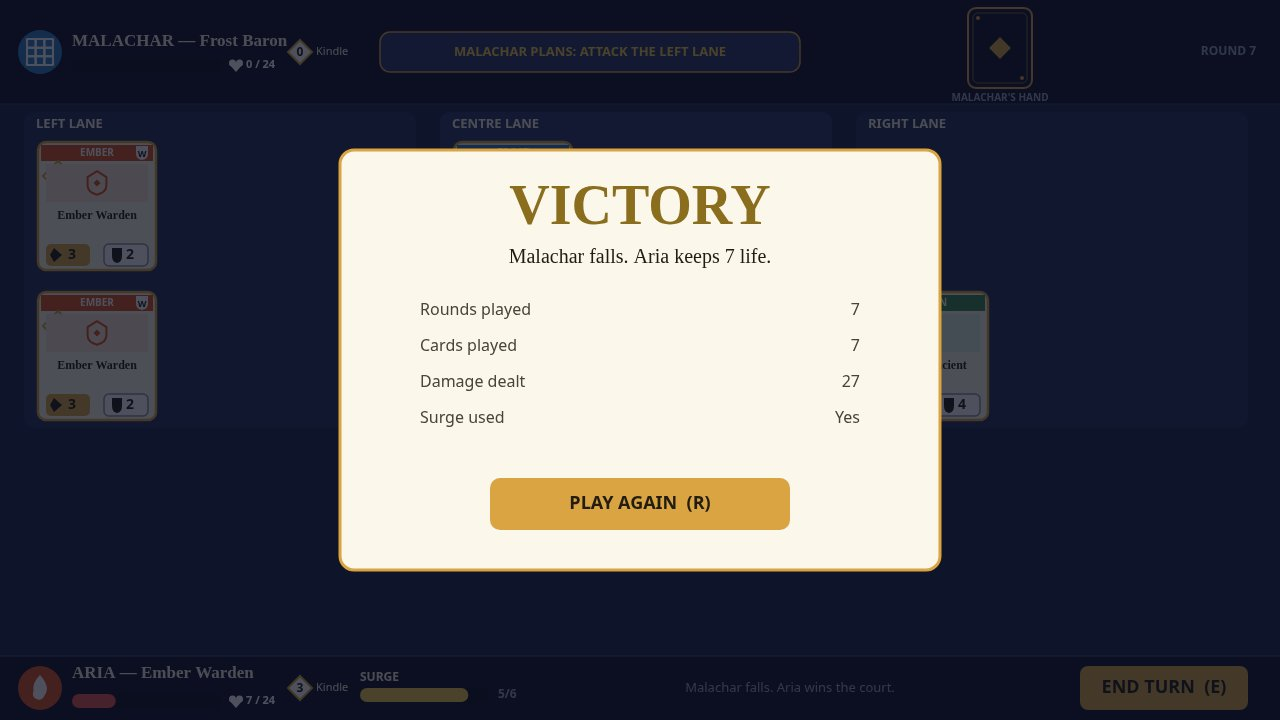
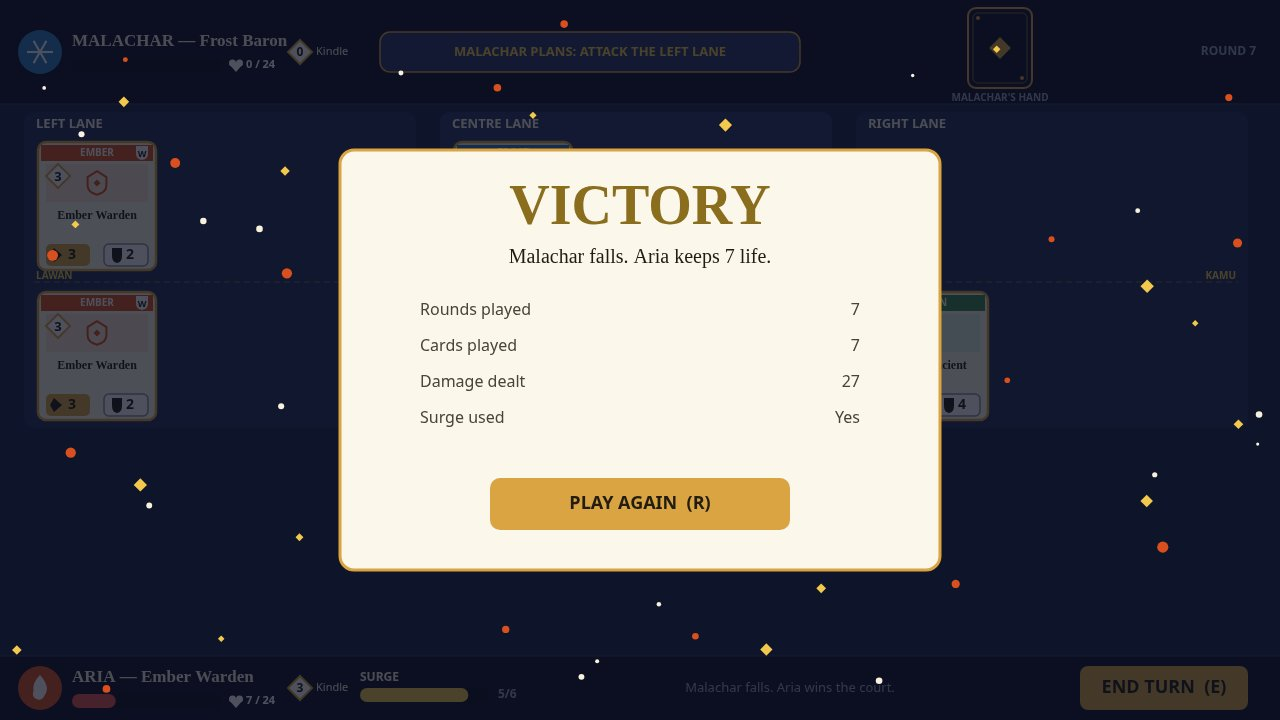
Claude Prompt 3 fixes: visible cost gem on all cards, clean full table shot, win confetti, Frost portrait

diff --git a/game/src/render.js b/game/src/render.js
@@ -4,6 +4,7 @@
 // only during play, never under a win/loss overlay.
 import { FIELD, PALETTE, STAT, FONT, FONT_UI, LANES, SURGE_MAX } from './config.js';
 import { ELEMENTS } from './cards.js';
+import { mulberry32 } from './random.js';
 import { effectiveAtk, resonanceBonus } from './engine.js';
 
 const LANE_X = [24, 440, 856];
@@ -201,17 +202,22 @@ export function drawCard(ctx, card, x, y, w, h, opts = {}) {
   ctx.textAlign = 'center';
   ctx.textBaseline = 'middle';
   ctx.fillText(el.name.toUpperCase(), x + w / 2, y + 11);
-  // Cost gem: a white diamond with a gold edge, top-left, clear of the art.
-  diamond(ctx, x + 20, y + 34, 15, STAT.costFill, STAT.costEdge);
-  ctx.fillStyle = STAT.costInk;
-  ctx.font = `bold 16px ${FONT_UI}`;
-  ctx.fillText(String(card.cost), x + 20, y + 35);
   // Unique art in a light tint of the element.
   const artY = y + 22;
   const artH = Math.max(28, Math.round(h * 0.3));
   ctx.fillStyle = el.light;
   ctx.fillRect(x + 8, artY, w - 16, artH);
   drawArt(ctx, card.art, x + w / 2, artY + artH / 2, Math.min(artH * 0.62, 52), el.color);
+  // Cost gem, drawn AFTER the art: a white diamond with a gold edge,
+  // top-left, number in dark ink. The gem IS the card's cost in Kindle
+  // and must read on every card, spells included. v2 drew it BEFORE the
+  // art rect, so the art painted over it and only a gold sliver stuck
+  // out at the card edge — the meaningless orange glyph in the corner.
+  const gemR = h >= 170 ? 15 : 12;
+  diamond(ctx, x + 20, y + 34, gemR, STAT.costFill, STAT.costEdge);
+  ctx.fillStyle = STAT.costInk;
+  ctx.font = `bold ${h >= 170 ? 16 : 13}px ${FONT_UI}`;
+  ctx.fillText(String(card.cost), x + 20, y + 35);
   // Name below the art. On small board cards that is all the text there is
   // room for: the rules text only fits on the large hand cards, where it
   // gets its own padded box clear of the stat strip. v1 squeezed rules
@@ -452,6 +458,22 @@ function drawLane(ctx, game, lane) {
     const selected = game.selected >= 0 && game.selectedLane === lane;
     drawCard(ctx, shown, cx, 292, BOARD_CARD.w, BOARD_CARD.h, { selected });
   });
+  // Ownership divider: the gap between the AI row (bottom y=270) and the
+  // player row (top y=292) carries a dashed line and two labels, so which
+  // half belongs to whom never has to be guessed from position alone.
+  ctx.strokeStyle = 'rgba(217,164,65,0.45)';
+  ctx.lineWidth = 1;
+  ctx.setLineDash([6, 4]);
+  ctx.beginPath(); ctx.moveTo(x + 10, 282); ctx.lineTo(x + LANE_W - 10, 282); ctx.stroke();
+  ctx.setLineDash([]);
+  ctx.font = `bold 10px ${FONT_UI}`;
+  ctx.textBaseline = 'middle';
+  ctx.fillStyle = PALETTE.goldBright;
+  ctx.textAlign = 'left';
+  ctx.fillText('LAWAN', x + 12, 276);
+  ctx.textAlign = 'right';
+  ctx.fillText('KAMU', x + LANE_W - 12, 276);
+  ctx.textAlign = 'center';
   if (game.selected >= 0 && game.selectedLane === lane) {
     ctx.strokeStyle = PALETTE.goldBright;
     ctx.lineWidth = 3;
@@ -481,7 +503,9 @@ export function drawTable(ctx, game) {
   ctx.beginPath(); ctx.moveTo(0, 104); ctx.lineTo(FIELD.width, 104); ctx.stroke();
   ctx.fillStyle = ELEMENTS.frost.color;
   ctx.beginPath(); ctx.arc(40, 52, 22, 0, Math.PI * 2); ctx.fill();
-  drawArt(ctx, 'wall', 40, 52, 26, '#ffffff');
+  // Frost emblem (snowflake), the same glyph the title screen uses for
+  // Frost — not the 3x3 grid, which read as a placeholder.
+  drawArt(ctx, 'snow', 40, 52, 26, '#ffffff');
   ctx.fillStyle = PALETTE.ivory;
   ctx.font = `bold 17px ${FONT}`;
   ctx.textAlign = 'left';
@@ -615,6 +639,36 @@ export function drawOver(ctx, game) {
   ctx.fillStyle = 'rgba(10,14,30,0.72)';
   ctx.fillRect(0, 0, FIELD.width, FIELD.height);
   const won = game.winner === 'player';
+  if (won) {
+    // Victory celebration: static ember confetti around the modal, placed
+    // by a seeded shuffle of the duel seed so the frame is deterministic.
+    // Static on purpose — a frozen mid-animation burst would read as a
+    // glitch, and the shot renderer draws one frame only. Confetti stays
+    // in the margins, clear of the modal (340..940 x 150..570).
+    const rand = mulberry32((game.seed * 101 + 7) >>> 0);
+    const bands = [
+      { x0: 16, x1: 1264, y0: 16, y1: 138 },
+      { x0: 16, x1: 1264, y0: 582, y1: 704 },
+      { x0: 16, x1: 324, y0: 150, y1: 570 },
+      { x0: 956, x1: 1264, y0: 150, y1: 570 },
+    ];
+    for (let i = 0; i < 48; i += 1) {
+      const band = bands[i % bands.length];
+      const px = band.x0 + rand() * (band.x1 - band.x0);
+      const py = band.y0 + rand() * (band.y1 - band.y0);
+      const r = 3 + rand() * 4;
+      const kind = i % 3;
+      if (kind === 0) {
+        diamond(ctx, px, py, r, PALETTE.goldBright, null);
+      } else if (kind === 1) {
+        ctx.fillStyle = '#d9501e';
+        ctx.beginPath(); ctx.arc(px, py, r * 0.8, 0, Math.PI * 2); ctx.fill();
+      } else {
+        ctx.fillStyle = PALETTE.ivory;
+        ctx.beginPath(); ctx.arc(px, py, r * 0.5, 0, Math.PI * 2); ctx.fill();
+      }
+    }
+  }
   ctx.fillStyle = PALETTE.cardWhite;
   roundRect(ctx, 340, 150, 600, 420, 14);
   ctx.fill();

diff --git a/game/src/shots.js b/game/src/shots.js
@@ -111,23 +111,43 @@ export function stageShot(name, seed) {
   if (name === 'win') {
     for (const candidate of WIN_SEEDS) {
       const game = runDuel(candidate, 'sharp');
-      if (game.phase === 'over' && game.winner === 'player') return { screen: SCREEN_OVER, game };
+      if (game.phase === 'over' && game.winner === 'player') { game.fx = []; return { screen: SCREEN_OVER, game }; }
     }
     const game = runDuel(WIN_SEEDS[0], 'sharp');
+    game.fx = [];
     return { screen: game.phase === 'over' ? SCREEN_OVER : SCREEN_PLAY, game };
   }
   if (name === 'loss') {
     for (const candidate of LOSS_SEEDS) {
       const game = runDuel(candidate, 'weak');
-      if (game.phase === 'over' && game.winner === 'ai') return { screen: SCREEN_OVER, game };
+      if (game.phase === 'over' && game.winner === 'ai') { game.fx = []; return { screen: SCREEN_OVER, game }; }
     }
     const game = runDuel(LOSS_SEEDS[0], 'weak');
+    game.fx = [];
     return { screen: game.phase === 'over' ? SCREEN_OVER : SCREEN_PLAY, game };
   }
   if (name === 'play') {
-    // Four rounds in: both boards populated, three cards in hand, life
-    // 21 vs 17 — a mid-duel that actually shows the game.
-    const game = runMidDuel(seed || 5, 4);
+    // A mid-duel cover needs a FULL board: at least 4 creatures, both
+    // sides present, still in play. The sharp player empties its hand
+    // and combat thins the board, so try the requested seed at 6, 5 and
+    // 4 rounds, then a fixed fallback list — first match wins, so the
+    // frame is deterministic. Floating damage text is cleared: fx are a
+    // live animation that the shot renderer draws once, so every "-N"
+    // from earlier rounds would freeze onto the static frame.
+    const base = seed || 118;
+    const tries = [[base, 6], [base, 5], [base, 4]];
+    for (const s of [118, 81, 23, 54, 50]) for (const r of [6, 5, 4]) tries.push([s, r]);
+    for (const [s, rounds] of tries) {
+      const game = runMidDuel(s, rounds);
+      const ai = game.ai.lanes.flat().length;
+      const pl = game.player.lanes.flat().length;
+      if (game.phase === 'play' && ai >= 1 && pl >= 1 && ai + pl >= 4) {
+        game.fx = [];
+        return { screen: SCREEN_PLAY, game };
+      }
+    }
+    const game = runMidDuel(base, 4);
+    game.fx = [];
     return { screen: SCREEN_PLAY, game };
   }
   const game = createGame(seed || 3);
